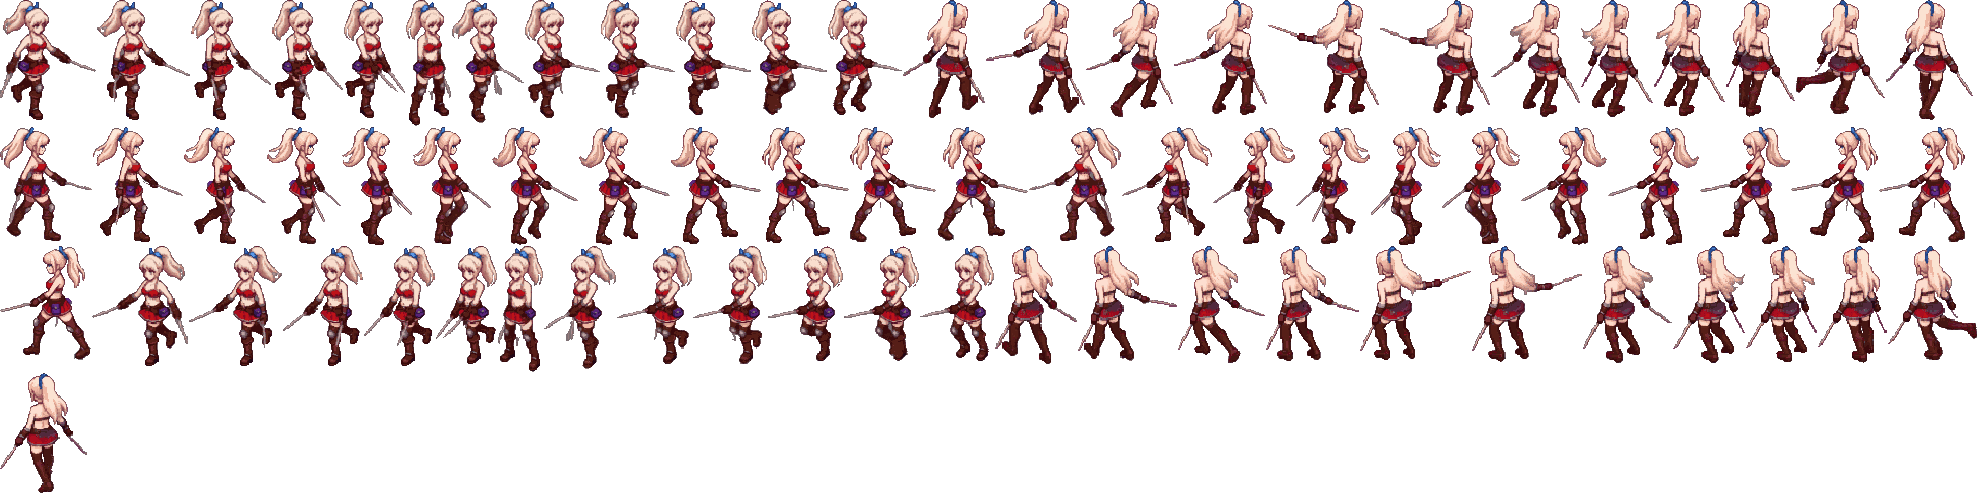
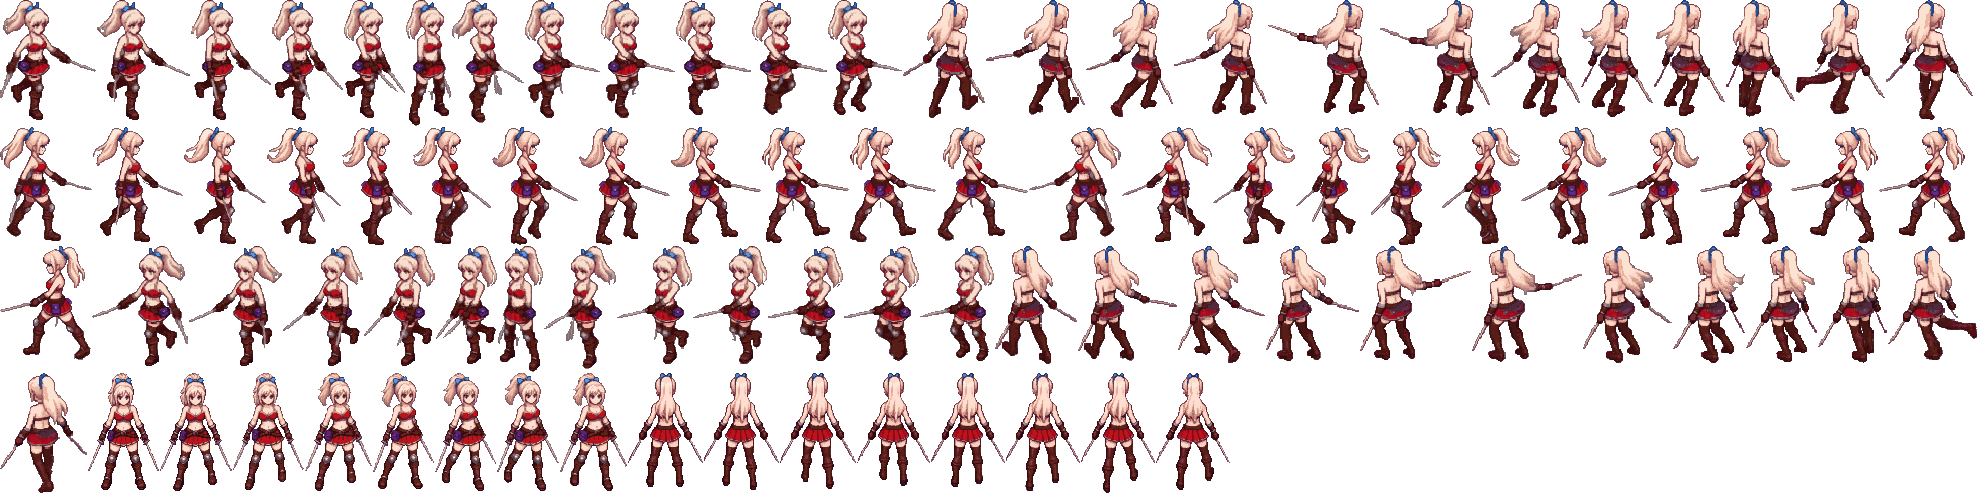
test128: Linette true front/back (south/north) walk + run from the hero's front/back motions; used when moving up/down
Claude-Session: https://claude.ai/code/session_016rTuiBLHccbMGyHtTkdTn7

Changed region(s): [[0.0309, 0.7606, 0.6171, 1.0]]

diff --git a/test128/linette.html b/test128/linette.html
@@ -62,6 +62,7 @@ function ui(){document.getElementById('bRun').classList.toggle('on',P.run);}
 const clip=n=>A.anims[n];
 const total=L=>L.reduce((s,e)=>s+e[2],0);
 function frameAt(L,t,loop){if(loop)t%=total(L);for(const e of L){if(t<e[2])return e;t-=e[2];}return L[L.length-1];}
+// owner 10-20: moving up/down uses the true front/back walk + run clips (walk_south / walk_north ...); idle and the rest keep the diagonal art
 function atkDir(){return P.face==='right'||P.face==='left'?P.face:P.face==='down'?(P.lastH==='left'?'downl':'down'):(P.lastH==='left'?'upl':'up');}
 function start(st,name){P.st=st;P.t=0;P.clip=name;}
 // owner 10-20 "이 컨셉으로 간다": attacks are an overlay - she keeps walking/running/jumping/standing (no attack pose) and the trail flies from where she is.
@@ -84,7 +85,7 @@ function step(){
     if(a.q&&a.n<3&&a.t>=tl2)P.atk={n:a.n+1,t:0,clip:'atk'+(a.n+1)+'_'+atkDir()};else if(a.t>=total(La))P.atk=null;}
   if(P.st==='idle'||P.st==='move'){
     if(moving){if(Math.abs(ix)>=Math.abs(iy)){P.face=ix>0?'right':'left';P.lastH=P.face;}else{P.face=iy>0?'down':'up';if(Math.abs(ix)>0.3)P.lastH=ix>0?'right':'left';}
-      const sp=P.run?2.2:1.0;P.x+=ix*sp;P.y+=iy*sp;const n=(P.run?'run_':'walk_')+atkDir();if(P.st!=='move'||P.clip!==n){P.st='move';P.clip=n;}}
+      const sp=P.run?2.2:1.0;P.x+=ix*sp;P.y+=iy*sp;const n=(P.run?'run_':'walk_')+(P.face==='down'?'south':P.face==='up'?'north':atkDir());if(P.st!=='move'||P.clip!==n){P.st='move';P.clip=n;}}
     else if(P.st!=='idle'||P.clip!=='idle_'+atkDir())start('idle','idle_'+atkDir());
   }else{
     const L=clip(P.clip),T=total(L);
@@ -141,5 +142,5 @@ function draw(){   // STILL: during attacks she keeps the idle pose (no attack f
 }
 let acc=0,last=performance.now();
 function loop(now){acc+=Math.min(100,now-last);last=now;while(acc>=1000/60){step();P.gt=(P.gt||0)+1;acc-=1000/60;}draw();requestAnimationFrame(loop);}
-fetch('assets/anim/linette8.json?v=17').then(r=>r.json()).then(j=>{A=j;return Promise.all(A.sheets.map(p=>new Promise(res=>{const i=new Image();i.onload=()=>res(i);i.src='assets/'+p+'?v=17';})));}).then(ims=>{SH=ims;const ld=src=>new Promise(r=>{const i=new Image();i.onload=()=>r(i);i.src=src;});return Promise.all([ld('assets/anim/hero8_castfx.webp?v=1'),ld('assets/anim/hero8_castfire.webp?v=1')]);}).then(([a,b])=>{FX=a;FIRE=b;start('idle','idle_right');requestAnimationFrame(loop);});
+fetch('assets/anim/linette8.json?v=18').then(r=>r.json()).then(j=>{A=j;return Promise.all(A.sheets.map(p=>new Promise(res=>{const i=new Image();i.onload=()=>res(i);i.src='assets/'+p+'?v=18';})));}).then(ims=>{SH=ims;const ld=src=>new Promise(r=>{const i=new Image();i.onload=()=>r(i);i.src=src;});return Promise.all([ld('assets/anim/hero8_castfx.webp?v=1'),ld('assets/anim/hero8_castfire.webp?v=1')]);}).then(([a,b])=>{FX=a;FIRE=b;start('idle','idle_right');requestAnimationFrame(loop);});
 </script></body></html>
